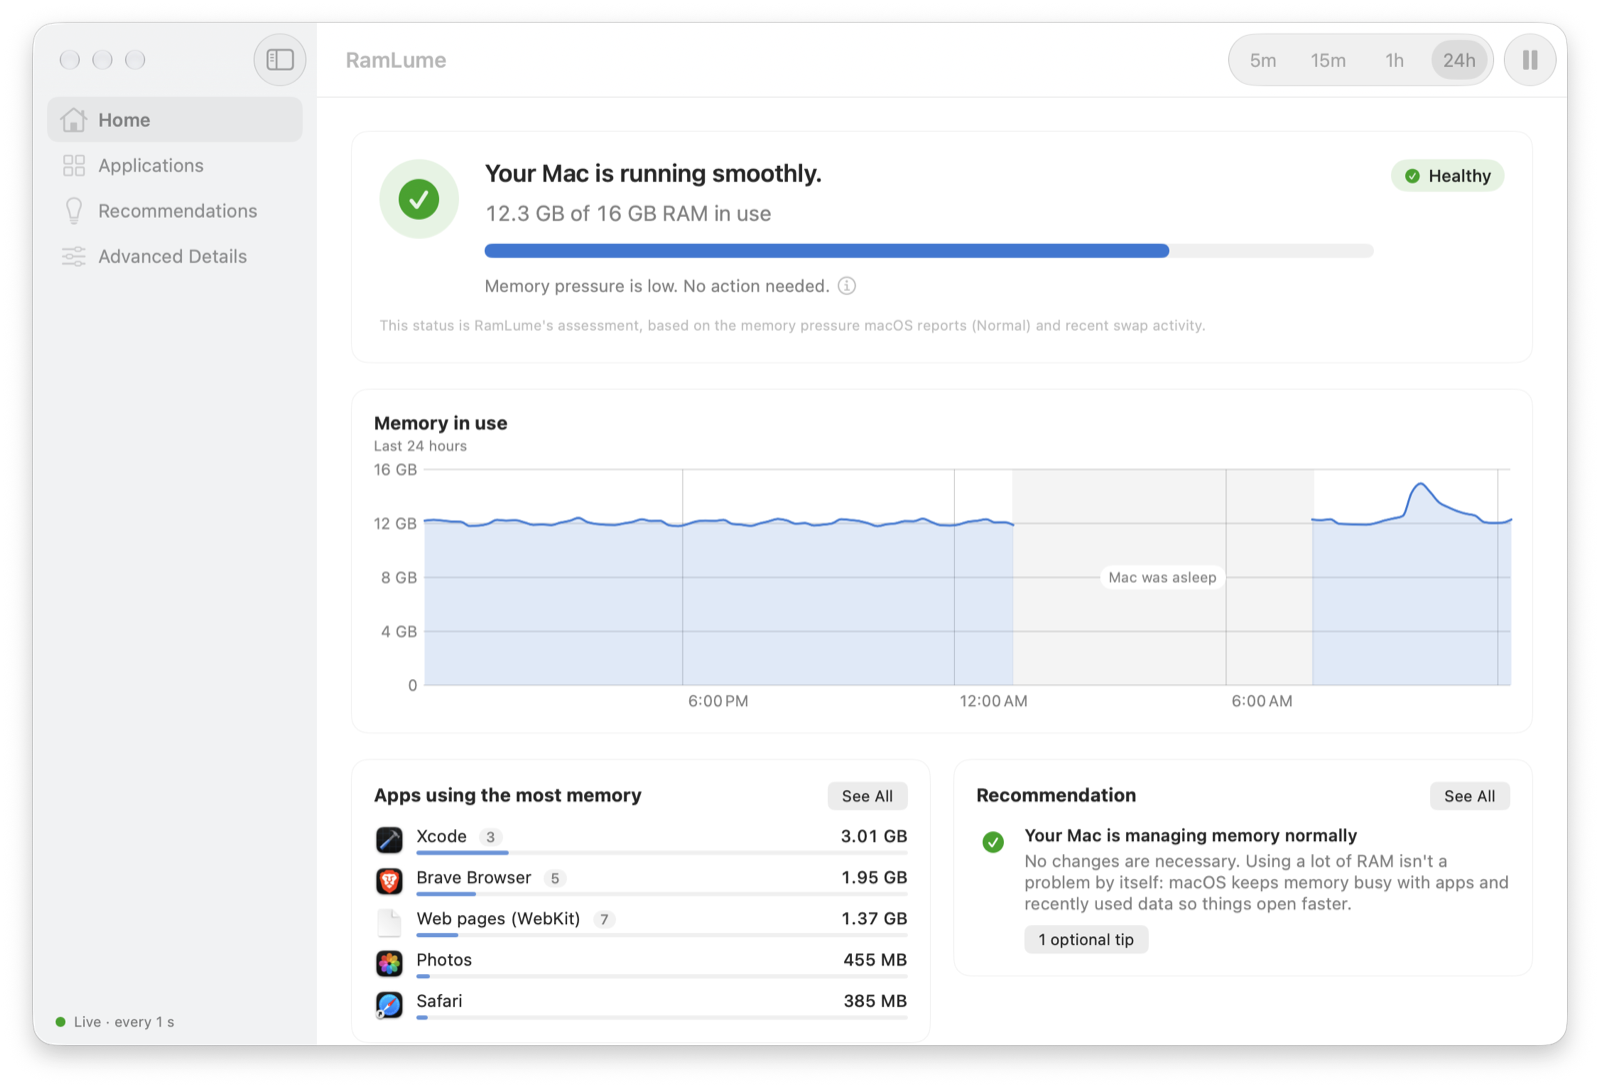
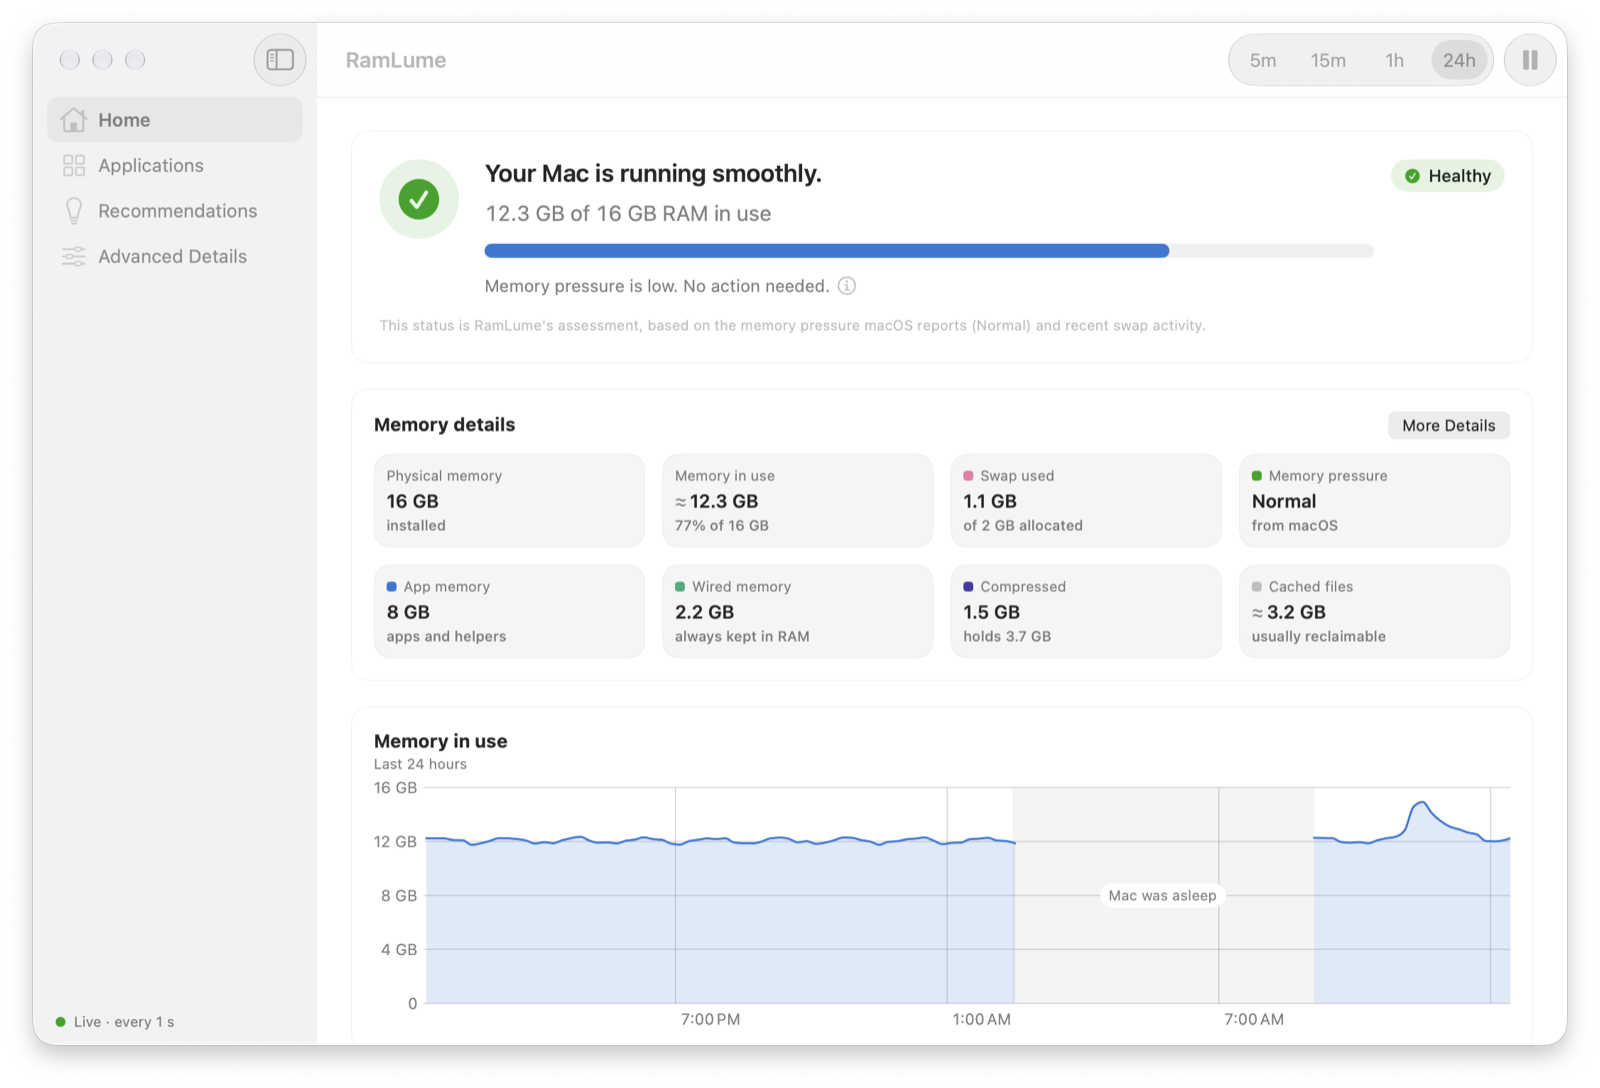
Show memory details on Home and in the panel; keep gap bands in the plot
Home gets a Memory details card with the figures Activity Monitor shows
(physical memory, memory in use, app, wired, and compressed memory,
cached files, swap used) and the pressure level macOS reports, with a
button to the full breakdown in Advanced Details. The menu bar panel
shows app memory, compressed memory, cached files, and swap under the
status.

A gap that began before a chart's time range, such as the hours before
RamLume was opened on the five-minute chart, drew its band past the
chart's left edge, over the axis labels and the sidebar: Swift Charts
doesn't clip marks to the x-domain. Gaps are now cut to the visible
range, and the history charts clip their marks to the plot's width,
keeping a few points above and below so a line at the top of the scale
isn't shaved. A gap's caption shows only when it fits on one line
instead of wrapping into a narrow column.

The Home and panel screenshots are retaken.

Changed region(s): [[0.2188, 0.375, 0.9688, 0.9375], [0.75, 0.4375, 0.9688, 0.6562], [0.875, 0.375, 0.9375, 0.4062]]

diff --git a/RamLume/UI/Components/HistoryCharts.swift b/RamLume/UI/Components/HistoryCharts.swift
@@ -41,6 +41,7 @@ private func byteAxis(maximum: Double) -> some AxisContent {
 }
 
 private struct GapBands: ChartContent {
+    /// The gaps cut to the visible range (`series.visibleGaps`), so no band starts off the plot.
     var gaps: [HistoryGap]
     /// Gaps at least this long are captioned with why there's no data ("Mac was asleep"), so a
     /// wide empty band doesn't look like a chart that failed to draw.
@@ -52,12 +53,17 @@ private struct GapBands: ChartContent {
                 .foregroundStyle(gapFill)
                 .annotation(position: .overlay, alignment: .center) {
                     if gap.duration >= captionMinimum {
-                        Text(gap.reason.displayName)
-                            .font(.caption)
-                            .foregroundStyle(.secondary)
-                            .padding(.horizontal, 6)
-                            .padding(.vertical, 2)
-                            .background(.background, in: Capsule())
+                        // An overlay is offered only the band's width; a caption that doesn't
+                        // fit on one line is left out rather than wrapped into a narrow column.
+                        ViewThatFits(in: .horizontal) {
+                            Text(gap.reason.displayName)
+                                .font(.caption)
+                                .foregroundStyle(.secondary)
+                                .padding(.horizontal, 6)
+                                .padding(.vertical, 2)
+                                .background(.background, in: Capsule())
+                            Color.clear.frame(width: 0, height: 0)
+                        }
                     }
                 }
         }
@@ -84,7 +90,7 @@ struct MemoryUsageChart: View {
         Chart {
             // At panel size the broken line already shows missing data; bands would only add noise.
             if style != .compact {
-                GapBands(gaps: series.gaps, captionMinimum: series.range.duration / 8)
+                GapBands(gaps: series.visibleGaps, captionMinimum: series.range.duration / 8)
             }
             switch style {
             case .compact, .simple: compactMarks
@@ -92,6 +98,7 @@ struct MemoryUsageChart: View {
             }
         }
         .chartXScale(domain: series.domain)
+        .clipsMarksToPlot()
         .chartYScale(domain: 0...max(total, 1))
         .chartLegend(.hidden)
         .chartXAxis {
@@ -206,7 +213,7 @@ struct CompressionChart: View {
     var body: some View {
         let maximum = max(series.peak { $0.compressedOriginal }, series.peak { $0.compressed }, Double(MemoryUnits.gibibyte) / 4)
         Chart {
-            GapBands(gaps: series.gaps)
+            GapBands(gaps: series.visibleGaps)
             ForEach(series.points) { item in
                 AreaMark(x: .value("Time", item.date), yStart: .value("Bytes", 0), yEnd: .value("Occupied", item.point.compressed), series: .value("Layer", "occupied-\(item.segment)"))
                     .foregroundStyle(Palette.compressed.opacity(washOpacity))
@@ -222,6 +229,7 @@ struct CompressionChart: View {
             }
         }
         .chartXScale(domain: series.domain)
+        .clipsMarksToPlot()
         .chartYScale(domain: 0...maximum)
         .chartXAxis { timeAxis(series.range) }
         .chartYAxis { byteAxis(maximum: maximum) }
@@ -261,7 +269,7 @@ struct SwapChart: View {
         let swapPoints = series.points.filter { $0.point.swapUsed != nil }
         let maximum = Self.yMaximum(for: series)
         Chart {
-            GapBands(gaps: series.gaps)
+            GapBands(gaps: series.visibleGaps)
             ForEach(swapPoints) { item in
                 let used = item.point.swapUsed ?? 0
                 AreaMark(x: .value("Time", item.date), yStart: .value("Bytes", 0), yEnd: .value("Swap used", used), series: .value("Layer", "swap-\(item.segment)"))
@@ -280,6 +288,7 @@ struct SwapChart: View {
             }
         }
         .chartXScale(domain: series.domain)
+        .clipsMarksToPlot()
         .chartYScale(domain: 0...maximum)
         .chartXAxis { timeAxis(series.range) }
         .chartYAxis { byteAxis(maximum: maximum) }
@@ -360,6 +369,7 @@ struct PressureTimeline: View {
             }
         }
         .chartXScale(domain: series.domain)
+        .clipsMarksToPlot()
         .chartYScale(domain: 0.0...1.0)
         .chartYAxis(.hidden)
         .chartXAxis(.hidden)
@@ -474,6 +484,7 @@ struct SwapActivityChart: View {
             }
         }
         .chartXScale(domain: series.domain)
+        .clipsMarksToPlot()
         .chartYScale(domain: 0...maximum)
         .chartXAxis { timeAxis(series.range) }
         .chartYAxis {

diff --git a/RamLume/UI/Components/MemoryDetailsGrid.swift b/RamLume/UI/Components/MemoryDetailsGrid.swift
@@ -1,0 +1,87 @@
+import SwiftUI
+
+/// The figures Activity Monitor shows under its Memory tab, as tiles, plus the pressure level
+/// macOS reports. Labels use Activity Monitor's names wherever RamLume means the same thing.
+struct MemoryDetailsGrid: View, Equatable {
+    enum Item {
+        case physical
+        case inUse
+        case swap
+        case pressure
+        case app
+        case wired
+        case compressed
+        case cached
+    }
+
+    var figures: MemoryFigures
+    var pressure: MemoryPressureLevel?
+    var items: [Item]
+    /// Four across when every tile fits that way without truncating, otherwise two.
+    var allowsFourColumns = true
+    var showsCaptions = true
+    var spacing: CGFloat = 12
+    var context: CardContext = .panel
+
+    var body: some View {
+        if allowsFourColumns {
+            ViewThatFits(in: .horizontal) {
+                grid(columns: 4)
+                grid(columns: 2)
+            }
+        } else {
+            grid(columns: 2)
+        }
+    }
+
+    private func grid(columns: Int) -> some View {
+        let tiles: [StatTile] = items.map(tile)
+        let rowStarts: [Int] = Array(stride(from: 0, to: tiles.count, by: columns))
+        return Grid(horizontalSpacing: spacing, verticalSpacing: spacing) {
+            ForEach(rowStarts, id: \.self) { start in
+                GridRow {
+                    ForEach(start..<min(start + columns, tiles.count), id: \.self) { index in
+                        tiles[index]
+                    }
+                }
+            }
+        }
+    }
+
+    private func tile(_ item: Item) -> StatTile {
+        // Every tile in a row has a caption (or none does), so the tiles in a row are the same height.
+        func caption(_ text: String) -> String? { showsCaptions ? text : nil }
+        switch item {
+        case .physical:
+            return StatTile(label: "Physical memory", value: figures.total, caption: caption("installed"),
+                            help: "The RAM installed in your Mac.", context: context)
+        case .inUse:
+            return StatTile(label: "Memory in use", value: figures.used, caption: caption("\(figures.percent) of \(figures.total)"),
+                            provenance: .estimated,
+                            help: "\(MemoryTerm.inUse.plain) Activity Monitor's Memory Used follows Apple's own formula, so it can differ slightly.",
+                            context: context)
+        case .swap:
+            let allocated: String = figures.swapTotal.map { "of \($0) allocated" } ?? "not reported"
+            return StatTile(label: "Swap used", value: figures.swapUsed ?? "Unavailable", caption: caption(allocated),
+                            swatch: Palette.swap,
+                            help: "\(MemoryTerm.swap.plain) Allocated swap can stay after demand drops; that's normal.",
+                            context: context)
+        case .pressure:
+            return StatTile(label: "Memory pressure", value: pressure?.displayName ?? "Not reported", caption: caption("from macOS"),
+                            swatch: Palette.pressure(pressure), help: MemoryTerm.pressure.plain, context: context)
+        case .app:
+            return StatTile(label: "App memory", value: figures.app, caption: caption("apps and helpers"),
+                            swatch: Palette.app, help: MemoryTerm.app.plain, context: context)
+        case .wired:
+            return StatTile(label: "Wired memory", value: figures.wired, caption: caption("always kept in RAM"),
+                            swatch: Palette.wired, help: MemoryTerm.wired.plain, context: context)
+        case .compressed:
+            let holds: String = figures.compressedOriginal.map { "holds \($0)" } ?? "nothing compressed"
+            return StatTile(label: "Compressed", value: figures.compressed, caption: caption(holds),
+                            swatch: Palette.compressed, help: MemoryTerm.compressed.plain, context: context)
+        case .cached:
+            return StatTile(label: "Cached files", value: figures.cached, caption: caption("usually reclaimable"),
+                            provenance: .estimated, swatch: Palette.cached, help: MemoryTerm.cached.plain, context: context)
+        }
+    }
+}

diff --git a/RamLume/UI/Dashboard/HomeView.swift b/RamLume/UI/Dashboard/HomeView.swift
@@ -9,8 +9,10 @@ struct HomeView: View {
         ScrollView {
             VStack(alignment: .leading, spacing: 18) {
                 if let snapshot = monitor.snapshot {
-                    HomeHealthCard(summary: HealthSummary(assessment: monitor.health, figures: MemoryFigures(snapshot), pressure: monitor.pressure.level))
+                    let figures = MemoryFigures(snapshot)
+                    HomeHealthCard(summary: HealthSummary(assessment: monitor.health, figures: figures, pressure: monitor.pressure.level))
                         .equatable()
+                    HomeDetailsCard(figures: figures, pressure: monitor.pressure.level)
                     HomeUsageCard()
                     AdaptiveRow(threshold: 760) {
                         HomeTopAppsCard()
@@ -43,6 +45,30 @@ private struct HomeHealthCard: View, Equatable {
                 .fixedSize(horizontal: false, vertical: true)
         }
         .card(.window, padding: 20)
+    }
+}
+
+/// Activity Monitor's memory figures, for people who want the numbers behind the status.
+private struct HomeDetailsCard: View {
+    @Environment(AppModel.self) private var app
+    var figures: MemoryFigures
+    var pressure: MemoryPressureLevel?
+
+    var body: some View {
+        DashboardCard("Memory details", accessory: {
+            Button("More Details") {
+                app.advancedPage = .memory
+                app.dashboardSection = .advanced
+            }
+            .controlSize(.small)
+        }) {
+            MemoryDetailsGrid(
+                figures: figures,
+                pressure: pressure,
+                items: [.physical, .inUse, .swap, .pressure, .app, .wired, .compressed, .cached]
+            )
+            .equatable()
+        }
     }
 }
 

diff --git a/RamLumeTests/UI/ChartDataTests.swift b/RamLumeTests/UI/ChartDataTests.swift
@@ -84,6 +84,31 @@ struct ChartDataTests {
         #expect(KeyFigures(figures: figures, pressure: firstReading, trends: .empty, now: now.addingTimeInterval(400)).pressureCaption == "for at least 6 min")
     }
 
+    // MARK: Gaps
+
+    @Test func gapBandsAreCutToTheVisibleRange() {
+        var visible = series([])
+        let rangeStart = visible.start
+        visible.gaps = [
+            // RamLume wasn't running overnight, until two minutes into the range.
+            HistoryGap(start: rangeStart.addingTimeInterval(-36_000), end: rangeStart.addingTimeInterval(120), reason: .appNotRunning),
+            HistoryGap(start: start.addingTimeInterval(100), end: start.addingTimeInterval(160), reason: .monitoringPaused),
+            HistoryGap(start: start.addingTimeInterval(500), end: start.addingTimeInterval(900), reason: .systemSleep),
+            // Ends exactly where the range begins: nothing to draw.
+            HistoryGap(start: rangeStart.addingTimeInterval(-600), end: rangeStart, reason: .systemSleep),
+        ]
+        let gaps = visible.visibleGaps
+        #expect(gaps.count == 3)
+        #expect(gaps[0].start == rangeStart)
+        #expect(gaps[0].duration == 120)   // captions go by what's on screen
+        #expect(gaps[0].reason == .appNotRunning)
+        #expect(gaps[1] == visible.gaps[1])
+        #expect(gaps[2].end == visible.domain.upperBound)
+        #expect(gaps.allSatisfy { visible.domain.contains($0.start) && visible.domain.contains($0.end) })
+        // Hover still reports the whole gap.
+        #expect(visible.gap(containing: rangeStart.addingTimeInterval(60)) == visible.gaps[0])
+    }
+
     // MARK: Pressure timeline
 
     @Test func pressureColumnsShowTheShareOfSamplesAtEachLevel() throws {

diff --git a/RamLume/UI/Components/ChartSupport.swift b/RamLume/UI/Components/ChartSupport.swift
@@ -29,9 +29,35 @@ extension HistorySeries {
     /// to look longer than it is.
     var domain: ClosedRange<Date> { start...max(end, start.addingTimeInterval(1)) }
 
+    /// Gaps cut to the visible span. A gap that began before the range (say, the hours RamLume
+    /// wasn't running before today's launch) would otherwise be drawn far outside the plot.
+    var visibleGaps: [HistoryGap] {
+        let domain = domain
+        return gaps.compactMap { gap in
+            let start = max(gap.start, domain.lowerBound)
+            let end = min(gap.end, domain.upperBound)
+            guard start < end else { return nil }
+            return HistoryGap(start: start, end: end, reason: gap.reason)
+        }
+    }
+
     func peak(_ value: (HistoryPoint) -> Double?) -> Double {
         points.compactMap { value($0.point) }.max() ?? 0
     }
+}
+
+extension View {
+    /// Keeps a chart's marks within the plot's left and right edges. Swift Charts doesn't clip
+    /// marks to the x-domain, so anything that starts before the visible range would draw over
+    /// the axis labels and past the card. Marks keep a few points above and below, so a line at
+    /// the top of the scale isn't shaved.
+    func clipsMarksToPlot() -> some View {
+        chartPlotStyle { plot in plot.clipShape(PlotWidthClip()) }
+    }
+}
+
+private struct PlotWidthClip: Shape {
+    func path(in rect: CGRect) -> Path { Path(rect.insetBy(dx: 0, dy: -4)) }
 }
 
 enum ChartFormatting {

diff --git a/RamLume/UI/MenuBar/MenuPanelView.swift b/RamLume/UI/MenuBar/MenuPanelView.swift
@@ -79,12 +79,22 @@ private struct PanelContent: View {
                 PausedNote()
             }
             if let snapshot = monitor.snapshot {
+                let figures = MemoryFigures(snapshot)
                 HealthSummaryView(
-                    summary: HealthSummary(assessment: monitor.health, figures: MemoryFigures(snapshot), pressure: monitor.pressure.level),
+                    summary: HealthSummary(assessment: monitor.health, figures: figures, pressure: monitor.pressure.level),
                     compact: true
                 )
                 .equatable()
                 .card(.panel)
+                MemoryDetailsGrid(
+                    figures: figures,
+                    pressure: monitor.pressure.level,
+                    items: [.app, .compressed, .cached, .swap],
+                    allowsFourColumns: false,
+                    showsCaptions: false,
+                    spacing: 8
+                )
+                .equatable()
                 TopAppsSection()
                 RecommendationSection()
             } else {

diff --git a/README.md b/README.md
@@ -14,7 +14,7 @@ macOS kernel, never guesses, and runs entirely on your Mac.
 
 <picture>
   <source media="(prefers-color-scheme: dark)" srcset="docs/images/home-dark.png">
-  <img alt="RamLume's Home page: the health status in one sentence, memory in use over 24 hours with a night's sleep shown as a gap, the largest apps, and the current recommendation" src="docs/images/home-light.png">
+  <img alt="RamLume's Home page: the health status in one sentence, the memory figures Activity Monitor shows, and memory in use over 24 hours with a night's sleep shown as a gap" src="docs/images/home-light.png">
 </picture>
 
 <sub>Screenshots show example data.</sub>
@@ -31,9 +31,12 @@ attention. It never sells you a "RAM cleaner".
 - **Menu bar monitoring**: a memory-chip icon with an optional percentage or used/total, tinted
   only when memory genuinely needs attention (never because of a percentage).
 - **A simple panel**: your Mac's status in one sentence ("Your Mac is running smoothly."), memory
-  in use with a single bar, the three apps using the most memory, and one recommendation.
+  in use with a single bar, app memory, compressed memory, cached files, and swap, the three apps
+  using the most memory, and one recommendation.
 - **Three questions, answered first**: the dashboard opens on Home (is my Mac healthy, which apps
-  use my RAM, what should I do?), with Applications and Recommendations one click away.
+  use my RAM, what should I do?), with Applications and Recommendations one click away. Home also
+  shows the figures Activity Monitor shows (physical memory, memory in use, app, wired, and
+  compressed memory, cached files, and swap used) and the pressure level macOS reports.
 - **Recommendations**: offline, rule-based tips with the reason, the suggested action, and
   step-by-step instructions, for example turning on Memory Saver in Brave or Chrome, reviewing
   login items, or quitting apps while memory pressure is high. When nothing needs doing, RamLume
@@ -62,7 +65,7 @@ attention. It never sells you a "RAM cleaner".
 
 | Menu bar panel | History |
 |---|---|
-| <picture><source media="(prefers-color-scheme: dark)" srcset="docs/images/panel-dark.png"><img alt="The menu bar panel: the status in one sentence, memory in use, the three largest apps, and one recommendation" src="docs/images/panel-light.png" width="300"></picture> | <picture><source media="(prefers-color-scheme: dark)" srcset="docs/images/history-dark.png"><img alt="Advanced Details, History: stacked memory usage, memory pressure, compressed memory, and swap over 24 hours, with a night's sleep shown as a gap" src="docs/images/history-light.png"></picture> |
+| <picture><source media="(prefers-color-scheme: dark)" srcset="docs/images/panel-dark.png"><img alt="The menu bar panel: the status in one sentence, memory in use, app memory, compressed memory, cached files, swap, the three largest apps, and one recommendation" src="docs/images/panel-light.png" width="300"></picture> | <picture><source media="(prefers-color-scheme: dark)" srcset="docs/images/history-dark.png"><img alt="Advanced Details, History: stacked memory usage, memory pressure, compressed memory, and swap over 24 hours, with a night's sleep shown as a gap" src="docs/images/history-light.png"></picture> |
 
 <picture>
   <source media="(prefers-color-scheme: dark)" srcset="docs/images/recommendations-dark.png">

diff --git a/CHANGELOG.md b/CHANGELOG.md
@@ -39,8 +39,9 @@ First public version. Release notes: [docs/release-notes/v0.1.0.md](docs/release
 - Simpler navigation: Home, Applications, Recommendations, and Advanced Details. Home answers
   "Is my Mac healthy?", "Which apps use my RAM?", and "What should I do?"; the technical pages
   (memory breakdown, history, events, definitions) live under Advanced Details.
-- The menu bar panel shows the status in one sentence, memory in use with one bar, the three
-  largest apps, and one recommendation, instead of a grid of statistics and a chart.
+- The menu bar panel shows the status in one sentence, memory in use with one bar, app memory,
+  compressed memory, cached files, swap, the three largest apps, and one recommendation, instead
+  of a long grid of statistics and a chart.
 - Health labels are Healthy, Elevated, High Pressure, and Checking, with plain-English sentences;
   memory terms have short explanations behind info buttons and on the Definitions page.
 - A shorter welcome card explains what RamLume watches and why high RAM use can be normal.
@@ -54,8 +55,16 @@ First public version. Release notes: [docs/release-notes/v0.1.0.md](docs/release
 - Recommendations: offline, rule-based tips with the reason, a suggested action, step-by-step
   instructions (such as turning on Memory Saver in Brave or Chrome), and buttons that open
   Applications, Activity Monitor, or Login Items settings.
+- Memory details on Home: the figures Activity Monitor shows (physical memory, memory in use,
+  app, wired, and compressed memory, cached files, swap used) and the pressure level macOS
+  reports, with a button to the full breakdown in Advanced Details.
 
 ### Fixed (before the first release)
+
+- A gap that began before a chart's time range (for example the hours before RamLume was opened,
+  shown on the five-minute chart) drew its gray band past the chart's left edge, over the axis
+  labels, the card, and the sidebar. Gaps are now cut to the visible range, and chart marks stay
+  inside the plot. A gap's caption appears only when it fits on one line.
 
 - Resting the pointer on a history chart could make RamLume spin at 100% of a CPU core and stop
   redrawing. A tooltip placed left of the crosshair widened the chart overlay's layout and moved
